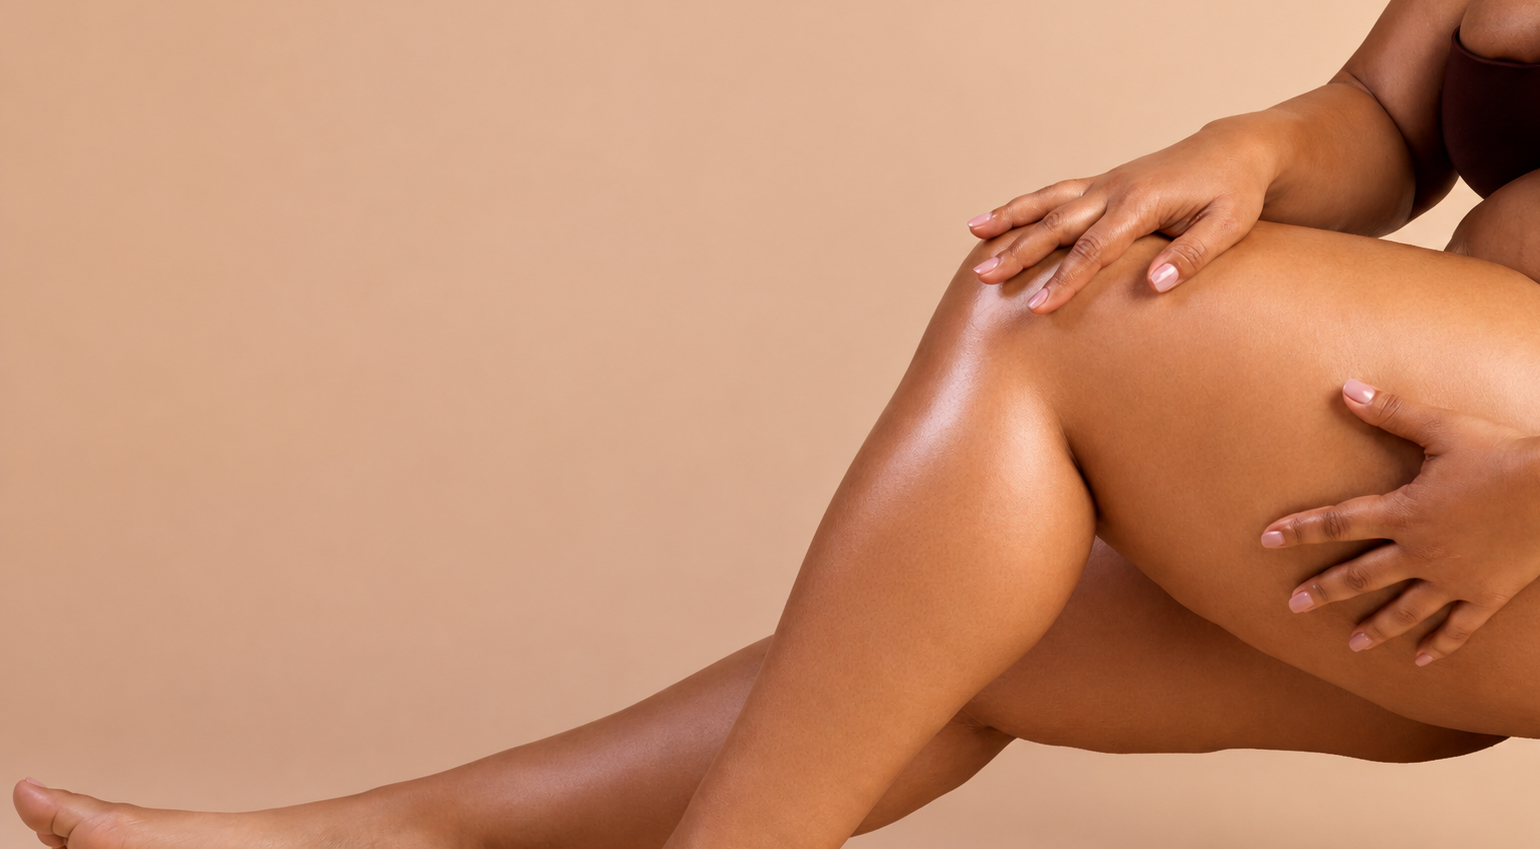
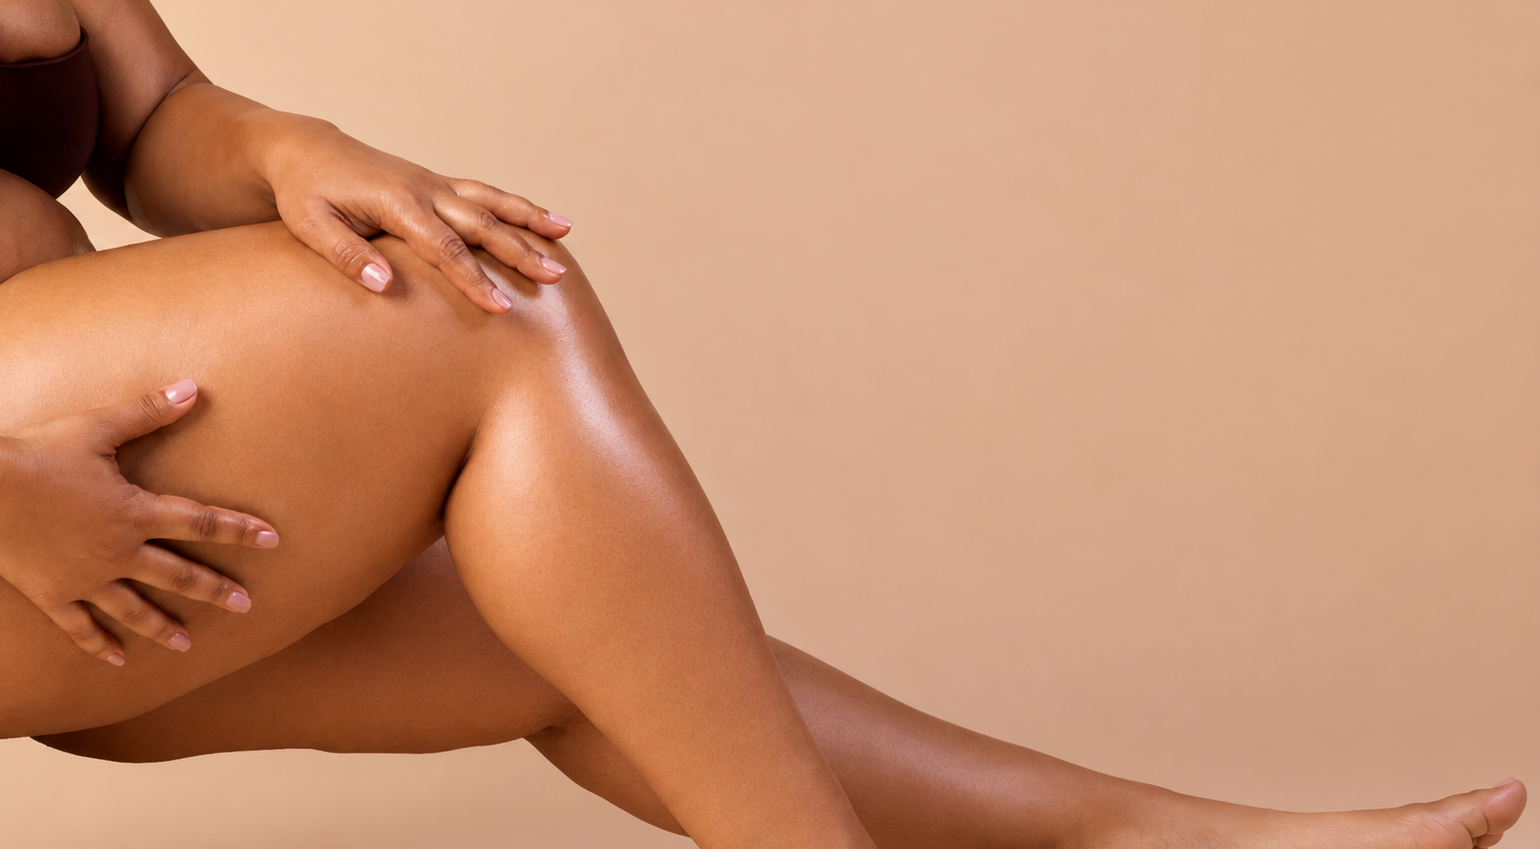
Add files via upload

diff --git a/index.html b/index.html
@@ -3,7 +3,7 @@
 <head>
 <meta charset="UTF-8">
 <meta name="viewport" content="width=device-width, initial-scale=1.0">
-<title>Brown Sugar Babe â€” Mockup</title>
+<title>Brown Sugar Babe &mdash; Mockup</title>
 <link rel="preconnect" href="https://fonts.googleapis.com">
 <link href="https://fonts.googleapis.com/css2?family=Fraunces:ital,opsz,wght@0,9..144,300;0,9..144,500;0,9..144,600;1,9..144,400;1,9..144,500&family=Sora:wght@300;400;500;600&display=swap" rel="stylesheet">
 <style>
@@ -372,8 +372,28 @@
       height:min(58vh, 500px); max-width:62vw;
       transform:translate(-50%, -45%) rotate(-8deg);
     }
-    .p-card{width:82%; min-width:268px;}
-    .p-bottle{height:88%; max-width:78%;}
+    .carousel{gap:14px; scroll-padding-left:0;}
+    .p-card{
+      width:calc((100vw - 54px) / 2);
+      min-width:0;
+      max-width:none;
+    }
+    .p-image{border-radius:12px;}
+    .p-bottle{height:82%; max-width:72%;}
+    .p-badge{font-size:7px; padding:4px 6px; letter-spacing:.1em;}
+    .p-info{padding:10px 2px 16px;}
+    .p-info h3{font-size:13px; line-height:1.18;}
+    .p-info .p-notes{font-size:8.5px; line-height:1.35; margin-top:4px;}
+    .p-info .p-row{gap:8px; margin-top:9px;}
+    .p-info .p-price{font-size:12px;}
+    .p-add{font-size:8px; padding:5px 8px;}
+    .shop-more-card{
+      width:calc((100vw - 54px) / 2);
+      min-width:0;
+      padding:12px 8px;
+    }
+    .shop-more-card span{font-size:13px; line-height:1.25;}
+    .shop-more-card .circle{width:34px; height:34px;}
     section{padding:70px 20px;}
     .collection-photo .label{left:20px; bottom:28px;}
   }
@@ -554,7 +574,7 @@
   <img class="hero-fallback-bottle" alt="Brown Sugar Babe fragrance body oil bottle" data-bottle>
 
   <div class="hero-copy" id="heroCopy">
-    <span class="eyebrow">Fragrance Body Oil Â· Est. Ritual</span>
+    <span class="eyebrow">Fragrance Body Oil &middot; Est. Ritual</span>
     <h1>welcome your new <br>obsession</h1>
     <p>made for skin that wants to be remembered</p>
     <a href="#seasonal" class="hero-cta">Shop the Collection</a>
@@ -576,18 +596,18 @@
         <h2>Featured</h2>
       </div>
       <div class="arrow-controls">
-        <button class="arrow-btn" onclick="scrollCarousel('featured-track',-1)">â†</button>
-        <button class="arrow-btn" onclick="scrollCarousel('featured-track',1)">â†’</button>
+        <button class="arrow-btn" onclick="scrollCarousel('featured-track',-1)">&larr;</button>
+        <button class="arrow-btn" onclick="scrollCarousel('featured-track',1)">&rarr;</button>
       </div>
     </div>
     <div class="carousel-wrap">
       <div class="carousel" id="featured-track">
-        <div class="p-card"><div class="p-image"><span class="p-badge">Bestseller</span><img class="p-bottle" alt="Brown Sugar Babe French Kiss fragrance body oil" data-bottle></div><div class="p-info"><h3>Caramel Skin</h3><div class="p-notes">Caramel Â· Brown Sugar Â· Musk</div><div class="p-row"><span class="p-price">$36</span><button class="p-add">Add</button></div></div></div>
-        <div class="p-card"><div class="p-image"><img class="p-bottle" alt="Brown Sugar Babe French Kiss fragrance body oil" data-bottle></div><div class="p-info"><h3>Coconut Vanilla Oil</h3><div class="p-notes">Coconut Â· Madagascar Vanilla</div><div class="p-row"><span class="p-price">$34</span><button class="p-add">Add</button></div></div></div>
-        <div class="p-card"><div class="p-image"><img class="p-bottle" alt="Brown Sugar Babe French Kiss fragrance body oil" data-bottle></div><div class="p-info"><h3>Mahogany Oud</h3><div class="p-notes">Oud Â· Mahogany Â· Amber</div><div class="p-row"><span class="p-price">$44</span><button class="p-add">Add</button></div></div></div>
-        <div class="p-card"><div class="p-image"><img class="p-bottle" alt="Brown Sugar Babe French Kiss fragrance body oil" data-bottle></div><div class="p-info"><h3>Peach Cognac</h3><div class="p-notes">Peach Â· Cognac Â· Suede</div><div class="p-row"><span class="p-price">$38</span><button class="p-add">Add</button></div></div></div>
-        <div class="p-card"><div class="p-image"><img class="p-bottle" alt="Brown Sugar Babe French Kiss fragrance body oil" data-bottle></div><div class="p-info"><h3>Sugared Jasmine</h3><div class="p-notes">Jasmine Â· Brown Sugar Â· Musk</div><div class="p-row"><span class="p-price">$36</span><button class="p-add">Add</button></div></div></div>
-        <div class="shop-more-card"><div class="circle">â†’</div><span>Shop all<br>featured oils</span></div>
+        <div class="p-card"><div class="p-image"><span class="p-badge">Bestseller</span><img class="p-bottle" alt="Brown Sugar Babe French Kiss fragrance body oil" data-bottle></div><div class="p-info"><h3>Caramel Skin</h3><div class="p-notes">Caramel &middot; Brown Sugar &middot; Musk</div><div class="p-row"><span class="p-price">$36</span><button class="p-add">Add</button></div></div></div>
+        <div class="p-card"><div class="p-image"><img class="p-bottle" alt="Brown Sugar Babe French Kiss fragrance body oil" data-bottle></div><div class="p-info"><h3>Coconut Vanilla Oil</h3><div class="p-notes">Coconut &middot; Madagascar Vanilla</div><div class="p-row"><span class="p-price">$34</span><button class="p-add">Add</button></div></div></div>
+        <div class="p-card"><div class="p-image"><img class="p-bottle" alt="Brown Sugar Babe French Kiss fragrance body oil" data-bottle></div><div class="p-info"><h3>Mahogany Oud</h3><div class="p-notes">Oud &middot; Mahogany &middot; Amber</div><div class="p-row"><span class="p-price">$44</span><button class="p-add">Add</button></div></div></div>
+        <div class="p-card"><div class="p-image"><img class="p-bottle" alt="Brown Sugar Babe French Kiss fragrance body oil" data-bottle></div><div class="p-info"><h3>Peach Cognac</h3><div class="p-notes">Peach &middot; Cognac &middot; Suede</div><div class="p-row"><span class="p-price">$38</span><button class="p-add">Add</button></div></div></div>
+        <div class="p-card"><div class="p-image"><img class="p-bottle" alt="Brown Sugar Babe French Kiss fragrance body oil" data-bottle></div><div class="p-info"><h3>Sugared Jasmine</h3><div class="p-notes">Jasmine &middot; Brown Sugar &middot; Musk</div><div class="p-row"><span class="p-price">$36</span><button class="p-add">Add</button></div></div></div>
+        <div class="shop-more-card"><div class="circle">&rarr;</div><span>Shop all<br>featured oils</span></div>
       </div>
     </div>
   </section>
@@ -618,21 +638,21 @@
       <div>
         <span class="eyebrow">Limited Run</span>
         <h2>Seasonal</h2>
-        <a href="#" class="section-link">Shop the Collection â†’</a>
+        <a href="#" class="section-link">Shop the Collection &rarr;</a>
       </div>
       <div class="arrow-controls">
-        <button class="arrow-btn" onclick="scrollCarousel('seasonal-track',-1)">â†</button>
-        <button class="arrow-btn" onclick="scrollCarousel('seasonal-track',1)">â†’</button>
+        <button class="arrow-btn" onclick="scrollCarousel('seasonal-track',-1)">&larr;</button>
+        <button class="arrow-btn" onclick="scrollCarousel('seasonal-track',1)">&rarr;</button>
       </div>
     </div>
     <div class="carousel-wrap">
       <div class="carousel" id="seasonal-track">
-        <div class="p-card"><div class="p-image"><span class="p-badge">New</span><img class="p-bottle" alt="Brown Sugar Babe French Kiss fragrance body oil" data-bottle></div><div class="p-info"><h3>Honey Fig Nightfall</h3><div class="p-notes">Fig Â· Wild Honey Â· Sandalwood</div><div class="p-row"><span class="p-price">$38</span><button class="p-add">Add</button></div></div></div>
-        <div class="p-card"><div class="p-image"><img class="p-bottle" alt="Brown Sugar Babe French Kiss fragrance body oil" data-bottle></div><div class="p-info"><h3>Cinnamon Amber Glow</h3><div class="p-notes">Cinnamon Bark Â· Amber Â· Tonka</div><div class="p-row"><span class="p-price">$38</span><button class="p-add">Add</button></div></div></div>
-        <div class="p-card"><div class="p-image"><img class="p-bottle" alt="Brown Sugar Babe French Kiss fragrance body oil" data-bottle></div><div class="p-info"><h3>Spiced Pear Dusk</h3><div class="p-notes">Pear Â· Clove Â· Cedarwood</div><div class="p-row"><span class="p-price">$40</span><button class="p-add">Add</button></div></div></div>
-        <div class="p-card"><div class="p-image"><img class="p-bottle" alt="Brown Sugar Babe French Kiss fragrance body oil" data-bottle></div><div class="p-info"><h3>Warm Cocoa Suede</h3><div class="p-notes">Cocoa Â· Suede Musk Â· Vanilla</div><div class="p-row"><span class="p-price">$40</span><button class="p-add">Add</button></div></div></div>
-        <div class="p-card"><div class="p-image"><img class="p-bottle" alt="Brown Sugar Babe French Kiss fragrance body oil" data-bottle></div><div class="p-info"><h3>Plum Noir</h3><div class="p-notes">Black Plum Â· Patchouli Â· Musk</div><div class="p-row"><span class="p-price">$42</span><button class="p-add">Add</button></div></div></div>
-        <div class="shop-more-card"><div class="circle">â†’</div><span>Shop the<br>full seasonal edit</span></div>
+        <div class="p-card"><div class="p-image"><span class="p-badge">New</span><img class="p-bottle" alt="Brown Sugar Babe French Kiss fragrance body oil" data-bottle></div><div class="p-info"><h3>Honey Fig Nightfall</h3><div class="p-notes">Fig &middot; Wild Honey &middot; Sandalwood</div><div class="p-row"><span class="p-price">$38</span><button class="p-add">Add</button></div></div></div>
+        <div class="p-card"><div class="p-image"><img class="p-bottle" alt="Brown Sugar Babe French Kiss fragrance body oil" data-bottle></div><div class="p-info"><h3>Cinnamon Amber Glow</h3><div class="p-notes">Cinnamon Bark &middot; Amber &middot; Tonka</div><div class="p-row"><span class="p-price">$38</span><button class="p-add">Add</button></div></div></div>
+        <div class="p-card"><div class="p-image"><img class="p-bottle" alt="Brown Sugar Babe French Kiss fragrance body oil" data-bottle></div><div class="p-info"><h3>Spiced Pear Dusk</h3><div class="p-notes">Pear &middot; Clove &middot; Cedarwood</div><div class="p-row"><span class="p-price">$40</span><button class="p-add">Add</button></div></div></div>
+        <div class="p-card"><div class="p-image"><img class="p-bottle" alt="Brown Sugar Babe French Kiss fragrance body oil" data-bottle></div><div class="p-info"><h3>Warm Cocoa Suede</h3><div class="p-notes">Cocoa &middot; Suede Musk &middot; Vanilla</div><div class="p-row"><span class="p-price">$40</span><button class="p-add">Add</button></div></div></div>
+        <div class="p-card"><div class="p-image"><img class="p-bottle" alt="Brown Sugar Babe French Kiss fragrance body oil" data-bottle></div><div class="p-info"><h3>Plum Noir</h3><div class="p-notes">Black Plum &middot; Patchouli &middot; Musk</div><div class="p-row"><span class="p-price">$42</span><button class="p-add">Add</button></div></div></div>
+        <div class="shop-more-card"><div class="circle">&rarr;</div><span>Shop the<br>full seasonal edit</span></div>
       </div>
     </div>
   </section>
@@ -647,11 +667,11 @@
     <div class="section-head">
       <div>
         <span class="eyebrow">Sourced From</span>
-        <h2>Fig Â· Wild Honey Â· Golden Amber</h2>
+        <h2>Fig &middot; Wild Honey &middot; Golden Amber</h2>
       </div>
       <div class="arrow-controls">
-        <button class="arrow-btn" onclick="scrollCarousel('c1-track',-1)">â†</button>
-        <button class="arrow-btn" onclick="scrollCarousel('c1-track',1)">â†’</button>
+        <button class="arrow-btn" onclick="scrollCarousel('c1-track',-1)">&larr;</button>
+        <button class="arrow-btn" onclick="scrollCarousel('c1-track',1)">&rarr;</button>
       </div>
     </div>
     <div class="ingredient-strip">
@@ -662,9 +682,9 @@
     </div>
     <div class="carousel-wrap">
       <div class="carousel" id="c1-track">
-        <div class="p-card"><div class="p-image"><img class="p-bottle" alt="Brown Sugar Babe French Kiss fragrance body oil" data-bottle></div><div class="p-info"><h3>Fig Leaf Amber</h3><div class="p-notes">Fig Leaf Â· Amber Â· Musk</div><div class="p-row"><span class="p-price">$38</span><button class="p-add">Add</button></div></div></div>
-        <div class="p-card"><div class="p-image"><img class="p-bottle" alt="Brown Sugar Babe French Kiss fragrance body oil" data-bottle></div><div class="p-info"><h3>Honeyed Skin</h3><div class="p-notes">Wild Honey Â· Vanilla Â· Sandalwood</div><div class="p-row"><span class="p-price">$38</span><button class="p-add">Add</button></div></div></div>
-        <div class="shop-more-card"><div class="circle">â†’</div><span>Shop the<br>Amber Fig Line</span></div>
+        <div class="p-card"><div class="p-image"><img class="p-bottle" alt="Brown Sugar Babe French Kiss fragrance body oil" data-bottle></div><div class="p-info"><h3>Fig Leaf Amber</h3><div class="p-notes">Fig Leaf &middot; Amber &middot; Musk</div><div class="p-row"><span class="p-price">$38</span><button class="p-add">Add</button></div></div></div>
+        <div class="p-card"><div class="p-image"><img class="p-bottle" alt="Brown Sugar Babe French Kiss fragrance body oil" data-bottle></div><div class="p-info"><h3>Honeyed Skin</h3><div class="p-notes">Wild Honey &middot; Vanilla &middot; Sandalwood</div><div class="p-row"><span class="p-price">$38</span><button class="p-add">Add</button></div></div></div>
+        <div class="shop-more-card"><div class="circle">&rarr;</div><span>Shop the<br>Amber Fig Line</span></div>
       </div>
     </div>
   </section>
@@ -679,11 +699,11 @@
     <div class="section-head">
       <div>
         <span class="eyebrow">Sourced From</span>
-        <h2>Blood Orange Â· Brown Sugar Â· Neroli</h2>
+        <h2>Blood Orange &middot; Brown Sugar &middot; Neroli</h2>
       </div>
       <div class="arrow-controls">
-        <button class="arrow-btn" onclick="scrollCarousel('c2-track',-1)">â†</button>
-        <button class="arrow-btn" onclick="scrollCarousel('c2-track',1)">â†’</button>
+        <button class="arrow-btn" onclick="scrollCarousel('c2-track',-1)">&larr;</button>
+        <button class="arrow-btn" onclick="scrollCarousel('c2-track',1)">&rarr;</button>
       </div>
     </div>
     <div class="ingredient-strip">
@@ -694,16 +714,16 @@
     </div>
     <div class="carousel-wrap">
       <div class="carousel" id="c2-track">
-        <div class="p-card"><div class="p-image"><img class="p-bottle" alt="Brown Sugar Babe French Kiss fragrance body oil" data-bottle></div><div class="p-info"><h3>Blood Orange Sugar</h3><div class="p-notes">Blood Orange Â· Sugar Â· Musk</div><div class="p-row"><span class="p-price">$36</span><button class="p-add">Add</button></div></div></div>
-        <div class="p-card"><div class="p-image"><img class="p-bottle" alt="Brown Sugar Babe French Kiss fragrance body oil" data-bottle></div><div class="p-info"><h3>Neroli Skin Glaze</h3><div class="p-notes">Neroli Â· Jasmine Â· Amber</div><div class="p-row"><span class="p-price">$38</span><button class="p-add">Add</button></div></div></div>
-        <div class="shop-more-card"><div class="circle">â†’</div><span>Shop the<br>Sugared Citrus Line</span></div>
+        <div class="p-card"><div class="p-image"><img class="p-bottle" alt="Brown Sugar Babe French Kiss fragrance body oil" data-bottle></div><div class="p-info"><h3>Blood Orange Sugar</h3><div class="p-notes">Blood Orange &middot; Sugar &middot; Musk</div><div class="p-row"><span class="p-price">$36</span><button class="p-add">Add</button></div></div></div>
+        <div class="p-card"><div class="p-image"><img class="p-bottle" alt="Brown Sugar Babe French Kiss fragrance body oil" data-bottle></div><div class="p-info"><h3>Neroli Skin Glaze</h3><div class="p-notes">Neroli &middot; Jasmine &middot; Amber</div><div class="p-row"><span class="p-price">$38</span><button class="p-add">Add</button></div></div></div>
+        <div class="shop-more-card"><div class="circle">&rarr;</div><span>Shop the<br>Sugared Citrus Line</span></div>
       </div>
     </div>
   </section>
 
   <footer>
-    <div>Â© brownsugarbabe â€” mockup for internal review</div>
-    <div>Instagram Â· TikTok Â· Pinterest</div>
+    <div>&copy; brownsugarbabe &mdash; mockup for internal review</div>
+    <div>Instagram &middot; TikTok &middot; Pinterest</div>
   </footer>
 
 </div>
@@ -858,7 +878,7 @@
   }
 </script>
 
-<!-- ===== 3D BOTTLE SCENE (module) â€” driven by page scroll ===== -->
+<!-- ===== 3D BOTTLE SCENE (module) &mdash; driven by page scroll ===== -->
 <script type="importmap">
 {
   "imports": {
